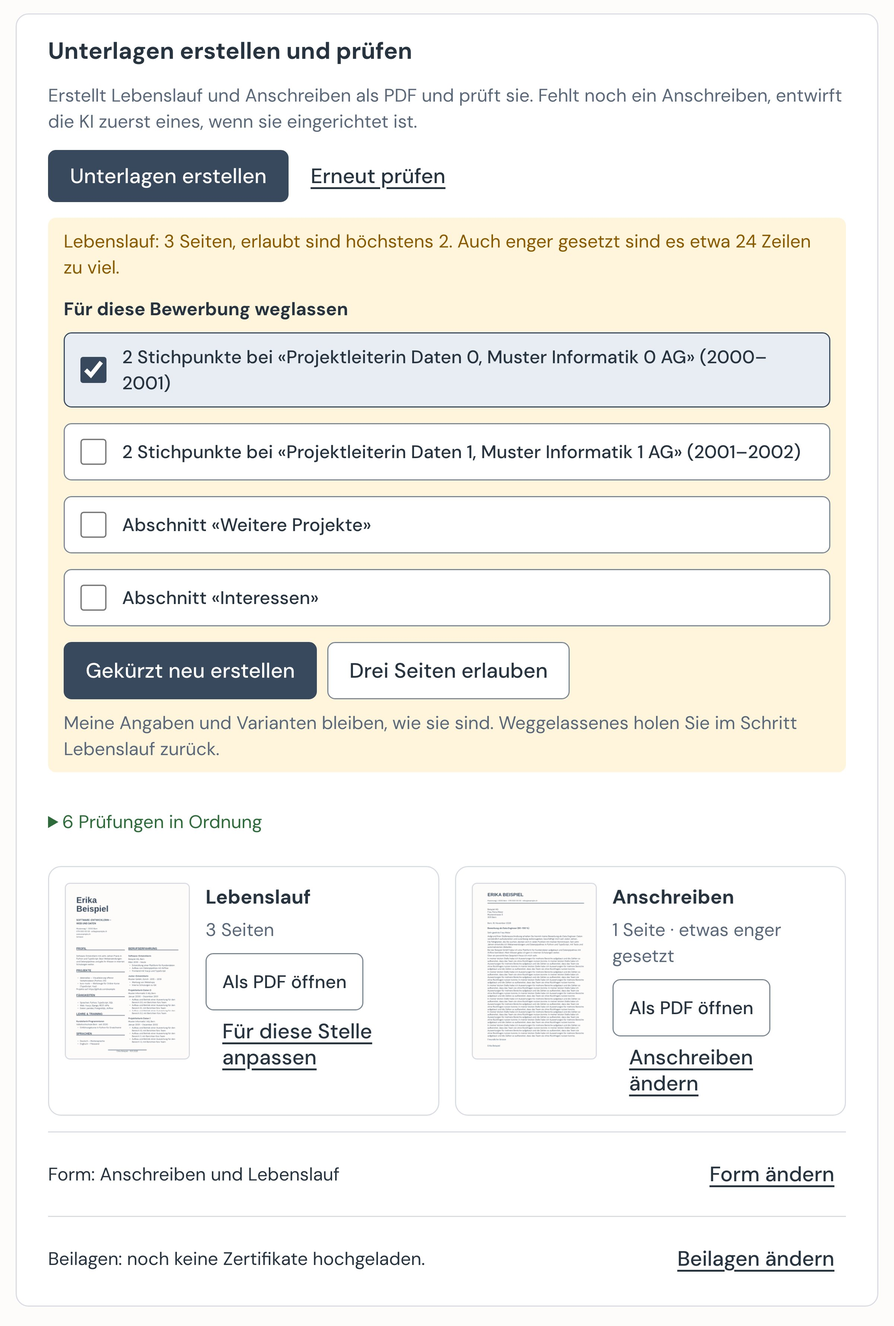
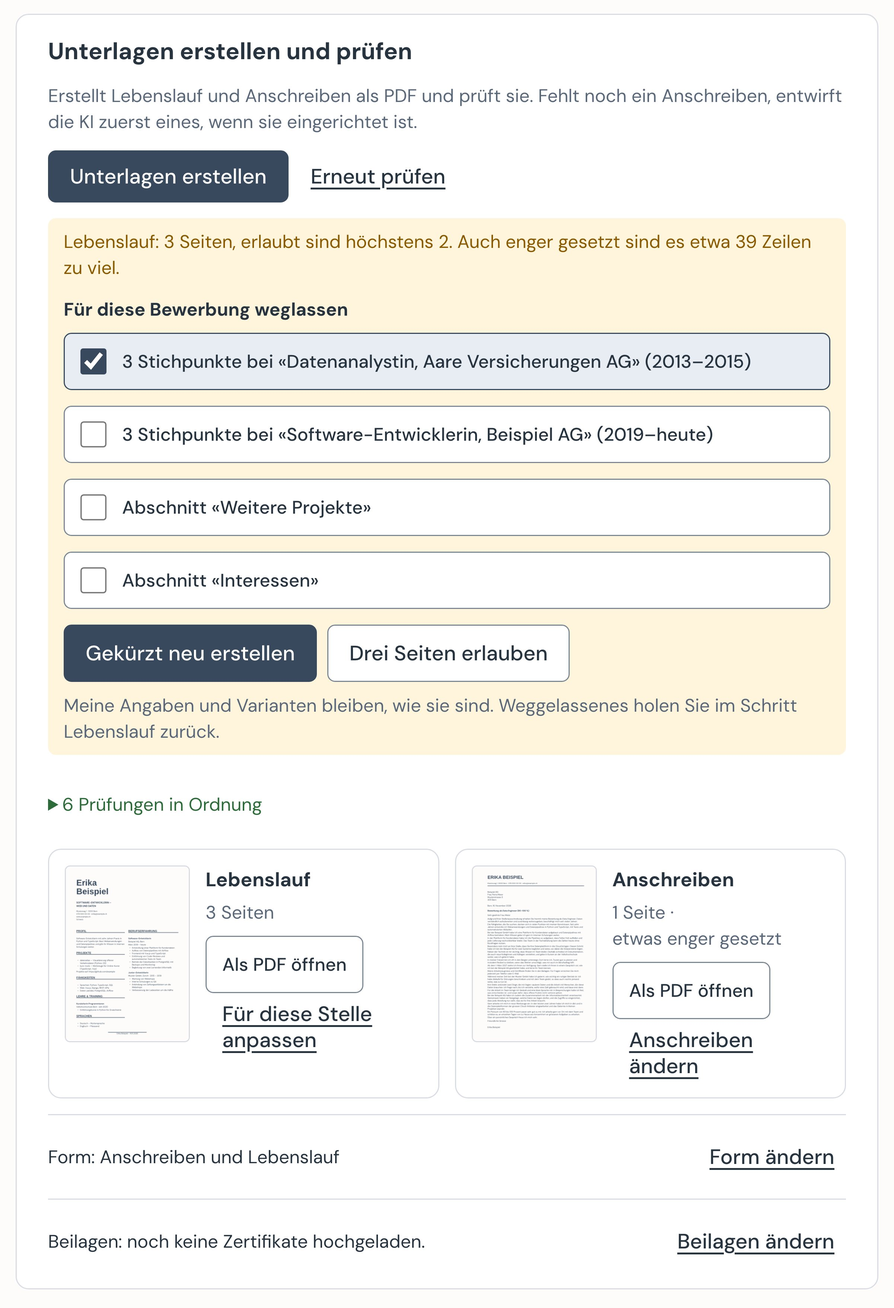
fix(bewerbungen): keep tile note parts whole, retake the picture [G93]
Pullboard-Item: #324

diff --git a/bewerbungen/seiten/unterlagen-schritt.js b/bewerbungen/seiten/unterlagen-schritt.js
@@ -58,17 +58,18 @@
     return el("a", attributes, adapt.text);
   }
 
-  const noteId = tile => `doc-tile-${tile.art}-seiten`;
-
   /**
-   * Pages and how they were balanced (G93), in plain words without a colour. The «·» is hidden from screen readers,
-   * which hear a comma instead, so the parts do not run together.
+   * Pages and how they were balanced (G93), in plain words without a colour. Each part breaks only as a whole, and the
+   * no-break space keeps the «·» on the line of the part before it. Screen readers skip the «·» and hear a comma.
    */
   function noteLine(tile) {
     if (!tile.note.length) return null;
-    const parts = tile.note.flatMap((part, index) => index === 0 ? [part]
-      : [el("span", { "aria-hidden": "true" }, " · "), el("span", { class: "visually-hidden" }, ", "), part]);
-    return el("p", { class: "doc-tile__note", id: noteId(tile) }, ...parts);
+    const parts = tile.note.flatMap((part, index) => {
+      const whole = el("span", { class: "doc-tile__part" }, part);
+      return index === 0 ? [whole]
+        : [el("span", { "aria-hidden": "true" }, " · "), el("span", { class: "visually-hidden" }, ", "), whole];
+    });
+    return el("p", { class: "doc-tile__note" }, ...parts);
   }
 
   /** One tile per built document; `stand` makes the browser load a rebuilt file anew. */
@@ -77,13 +78,11 @@
     const tiles = R.tiles(daten.pdfs, W.gewaehlt(entry),
       { ownCv: Boolean(daten.eigener_lebenslauf), sent: Boolean(entry.versand), notes: daten.seiten });
     $("pdfs").replaceChildren(...tiles.map(tile => {
-      const note = noteLine(tile);
-      const named = { class: "doc-tile", "aria-labelledby": `doc-tile-${tile.art}` };
-      return el("article", note ? { ...named, "aria-describedby": noteId(tile) } : named,
+      return el("article", { class: "doc-tile", "aria-labelledby": `doc-tile-${tile.art}` },
         el("img", { class: "doc-tile__thumb", src: url("/api/pdf/miniatur", { id: entryId, art: tile.art, stand }), alt: tile.alt, ...THUMB }),
         el("div", { class: "doc-tile__body" },
           el("h3", { class: "doc-tile__name", id: `doc-tile-${tile.art}` }, tile.name),
-          note,
+          noteLine(tile),
           el("div", { class: "doc-tile__links" },
             el("a", { class: "btn btn--sm doc-tile__link", href: url("/api/pdf", { id: entryId, art: tile.art, stand }), target: "_blank", rel: "noopener" }, tile.open),
             adaptLink(tile.adapt))));

diff --git a/bewerbungen/seiten/unterlagen.css b/bewerbungen/seiten/unterlagen.css
@@ -100,7 +100,9 @@
 .doc-tile__body { display: flex; flex: 1 1 auto; flex-direction: column; gap: var(--space-2); min-width: 0; }
 .application .card .doc-tile__name { margin: 0; font-size: 15px; line-height: 22px; }
 /* G93: words, never a colour, say what the app did to the pages */
-.application .card .doc-tile__note { margin: calc(-1 * var(--space-1)) 0 0; font-size: 14px; line-height: 20px; color: var(--text-muted); overflow-wrap: anywhere; }
+.application .card .doc-tile__note { margin: calc(-1 * var(--space-1)) 0 0; font-size: 14px; line-height: 20px; color: var(--text-muted); }
+/* a part breaks to the next line as a whole, so «so eng wie möglich» is never split */
+.application .card .doc-tile__part { display: inline-block; max-width: 100%; }
 .doc-tile__links { display: flex; flex-direction: column; align-items: flex-start; gap: var(--space-1); }
 /* «Für diese Stelle anpassen» is wider than a tile at 1280 px; buttons do not wrap by default */
 .doc-tile__link { min-height: 44px; max-width: 100%; white-space: normal; text-align: left; }

diff --git a/desktop/tests/test_guide_redesign.py b/desktop/tests/test_guide_redesign.py
@@ -153,3 +153,9 @@ def test_the_pictures_say_what_they_show_today():
     # G93, #324: each tile names its pages and how the app balanced them
     assert "beim Anschreiben 1 Seite · etwas enger gesetzt" in picture
     assert "**1 Seite · etwas enger gesetzt**" in check and "**7 Seiten · Lebenslauf etwas enger gesetzt**" in check
+    assert "damit keine Seite fast leer bleibt und die Seitenzahl eingehalten wird" in check
+    assert ("Passt ein Dokument auch so eng wie möglich nicht, setzt die App es wie vorgegeben; dann steht nur die Zahl "
+            "der Seiten da, und der Befund darüber nennt, wie viel zu viel ist.") in check
+    # the picture shows natural invented stations, not the generated ones of the tests
+    assert "Projektleiterin Daten" not in picture and "Muster Informatik 0" not in picture
+    assert "3 Stichpunkte bei «Datenanalystin, Aare Versicherungen AG» (2013–2015)" in picture

diff --git a/docs/installation.md b/docs/installation.md
@@ -211,9 +211,9 @@ Gibt es Suchprofil, Stilprofil oder Bausteine schon, fragt die App beim Überneh
 
 1. **Suchen**: Klicken Sie links auf **Stellen** und dann auf **Jetzt suchen**. Die Erweiterung sucht auf den Portalen, in Ihrem Browser und nur, wenn Sie die Suche starten. Ohne gewählte Kantone sucht sie in der ganzen Schweiz; Stellen nahe Ihrem Wohnort stehen dann zuerst. Lässt sich die Suche noch nicht starten, steht der Grund direkt unter dem Knopf, etwa **Zuerst Meine Angaben abschliessen.** Oben fasst eine Zeile die Einstellungen zusammen: Suchbegriffe, Region und Anzahl Portale. Mit **Ändern** oder **Suche einstellen** öffnen Sie die Seite **Suche einstellen** und wählen dort unter **Wo suchen Sie?** die Portale. Region, Pensum, was Sie nicht sehen wollen und den Titelfilter unter **Erweitert** ändern Sie dort ebenfalls: **Ändern** in der Karte öffnet die Felder, **Speichern** gilt ab der nächsten Suche, und der frühere Stand bleibt als Entwurf erhalten. Passen Ihre Begriffe nicht zur Informatik, ist ictjobs zu Beginn ausgeschaltet. Die Suche läuft alle Ihre Suchbegriffe und Orte ab, pro Portal in Etappen von höchstens 30 Suchen mit einer Minute Pause dazwischen, damit die Portale nicht alles auf einmal bekommen. Vor einer langen Suche steht unter **Jetzt suchen**, wie viele Suchen und Etappen es sind und wie lange es etwa dauert; während der Suche zeigt die Seite, auf welchem Portal sie mit welchem Suchbegriff und Ort sucht und bei welcher Suche und Etappe sie ist. Pro Portal holt ein Lauf höchstens 150 neue Inserate, der Rest kommt bei der nächsten Suche. Ihre Suchbegriffe stehen auf **Suche einstellen** unter **Welche Stellen passen zu Ihnen?**: Einen eigenen tragen Sie unter **Eigenen Suchbegriff aufnehmen** ein und klicken auf **Aufnehmen**. Haben Sie einen Begriff aus Versehen entfernt, holt **Rückgängig** in der Meldung ihn an seinen Platz zurück. Die Suche sucht Ihre Begriffe von oben nach unten, die wichtigsten zuerst; ein neuer Begriff kommt ans Ende. Um die Reihenfolge zu ändern, ziehen Sie einen Begriff an den Punkten links an seinen Platz, oder Sie verschieben ihn mit den Pfeilen daneben, auch mit der Tastatur. Die neue Reihenfolge gilt ab der nächsten Suche, und der frühere Stand bleibt als Entwurf erhalten.
 2. **Entscheiden**: Neue Treffer stehen unter **Neu**. Hat ein Treffer noch keine Note, lässt **Bewerten** die KI einschätzen, wie gut er zu Ihnen passt; **Alle prüfen** über der Liste tut das für alle, mit den geschätzten Kosten daneben. Während es läuft, steht im Kasten, welches Inserat die Erweiterung gerade holt und welche Stellen die KI gerade prüft. Beim gewählten Treffer klicken Sie auf **Bewerbung vorbereiten**: Die App legt die Bewerbung an und öffnet sie. **Merken** legt sie an, ohne sie zu öffnen; die Meldung **Gemerkt.** führt mit **Bewerbung öffnen** zu ihr. **Verwerfen** blendet den Treffer aus. Gemerkte Treffer stehen unter **Gemerkt**, verworfene unter **Verworfen**. Mehrere auf einmal merkt **Alle ab Note … merken** unter der Liste: Wählen Sie die Note, die App nennt vorher, welche Treffer das sind, und merkt sie erst, wenn Sie bestätigen. Treffer ohne Note bleiben dabei, wie sie sind.
-3. **Bewerben**: **Heute** zeigt, was als Nächstes zu tun ist, und die Seite **Bewerbungen** den nächsten Schritt jeder Bewerbung. Öffnen Sie eine Bewerbung. Unter **Lebenslauf** wählen Sie die Variante oder erstellen mit **Lebenslauf erstellen** einen Lebenslauf für diese Stelle (siehe [Lebenslauf für eine Stelle erstellen](#lebenslauf-für-eine-stelle-erstellen)). Unter **Unterlagen erstellen und prüfen** wählen Sie, ob die Unterlagen als **Anschreiben und Lebenslauf** entstehen, zwei PDF wie vorgegeben, oder als **Dossier**. Mit Dossier fasst eine Zeile Design, Zeichen und Farbe sowie Begrüssung und Dank zusammen; **Dossier gestalten** öffnet dazu ein Fenster mit einer Vorschau des Deckblatts. Unter **Für diese Bewerbung** wählen Sie das Design, unter **Design pro Seite** eines für einzelne Seiten, dazu Begrüssung und Dank; das gilt erst mit **Übernehmen**, und **Abbrechen** fragt **Änderungen verwerfen?**, wenn Sie Texte geändert haben. Zeichen und Farbe unter **Für alle Dossiers** gelten für alle Dossiers und sind sofort gespeichert. Dann klicken Sie auf **Unterlagen erstellen**. Fehlt noch ein Anschreiben, entwirft die KI dabei zuerst eines; das kann bis zu einer Minute dauern. Der Entwurf ist ein Ausgangspunkt: Lesen Sie ihn, passen Sie ihn mit **Ändern** an die Stelle und die Firma an, und klicken Sie dann auf **Freigeben**. Die App prüft die erstellten PDFs unter **Unterlagen erstellen und prüfen**: wie voll die letzte Seite ist, ob eine Überschrift allein am Ende einer Seite steht und ob Text über den Rand oder über anderen Text läuft. Jeder Befund nennt das Dokument und die Seite und hat einen Knopf **So lassen**; das Formular öffnet sich erst, wenn Sie jeden Befund angesehen und bestätigt haben. Was in Ordnung ist, steht zugeklappt darunter, etwa **6 Prüfungen in Ordnung**. Ist der Lebenslauf auch eng gesetzt zu lang, nennt der Befund, wie viele Zeilen zu viel sind, und statt **So lassen** stehen darunter Kürzungen zum Anhaken, etwa **3 Stichpunkte bei «Station, Firma» (2015–2018)** oder ein ganzer Abschnitt; die erste ist schon angehakt. **Gekürzt neu erstellen** erstellt Lebenslauf und Dossier ohne das Angehakte neu, **Drei Seiten erlauben** lässt drei Seiten zu. Beides gilt nur für diese Bewerbung: Meine Angaben und Varianten bleiben, wie sie sind. Solange der Lebenslauf zu lang ist, nennt die Prüfung nicht, wie voll seine letzte Seite ist; diese Seite fällt ja weg. Ist der Lebenslauf danach noch zu lang, meldet die App **Gekürzt und neu erstellt. Der Lebenslauf ist noch zu lang; die nächste Kürzung ist angehakt.**, und der Befund kommt wieder, mit der nächsten Kürzung angehakt. Was weggelassen ist, steht unter **Lebenslauf**, nach **Lebenslauf erstellen** und **Lebenslauf anpassen**, bei **Für diese Bewerbung weggelassen**, und **Zurückholen** nimmt es wieder auf. Haben Sie drei Seiten erlaubt, steht darunter die Zeile **Drei Seiten erlaubt, nur für diese Bewerbung.** mit **Zurücknehmen**. **Zurücknehmen** bei **Drei Seiten erlaubt** gilt wieder die Grenze von zwei Seiten. Ist das Anschreiben zu lang, nennt der Befund, was sich kürzen liesse; gekürzt wird es nur von Ihnen. Pro Dokument zeigt eine Kachel die erste Seite und darunter, wie viele Seiten es hat. Hat die App den Satz verändert, damit keine Seite fast leer bleibt und die Grenze hält, steht in wenigen Worten dabei, wie, etwa **1 Seite · etwas enger gesetzt**, **2 Seiten · etwas grosszügiger gesetzt** oder **2 Seiten · so eng wie möglich**; beim Dossier mit dem Teil, etwa **7 Seiten · Lebenslauf etwas enger gesetzt**. **Als PDF öffnen** zeigt das ganze PDF, und ein Link führt dorthin, wo Sie es ändern: **Für diese Stelle anpassen** zur Wahl der Lebenslauf-Variante, bei Ihrem eigenen PDF **In Lebenslauf und Dateien ändern**, **Anschreiben ändern** zum Anschreiben und **Dossier gestalten** zum Dossier. Nach dem Erstellen steht die gewählte Form nur noch als eine Zeile über den Beilagen, etwa **Form: Dossier, Siegel**; **Form ändern** zeigt die Kacheln wieder. Die Beilagen stehen in einer Zeile; **Beilagen ändern** öffnet die Liste der Zertifikate, und **Auswahl speichern** hält sie fest. Danach öffnet **Formular öffnen** das Formular der Firma, und die Erweiterung füllt es aus. Haben Sie schon einen fertigen Lebenslauf, entfällt das Erstellen (siehe [Fertige Dateien verwenden](#fertige-dateien-verwenden)).
+3. **Bewerben**: **Heute** zeigt, was als Nächstes zu tun ist, und die Seite **Bewerbungen** den nächsten Schritt jeder Bewerbung. Öffnen Sie eine Bewerbung. Unter **Lebenslauf** wählen Sie die Variante oder erstellen mit **Lebenslauf erstellen** einen Lebenslauf für diese Stelle (siehe [Lebenslauf für eine Stelle erstellen](#lebenslauf-für-eine-stelle-erstellen)). Unter **Unterlagen erstellen und prüfen** wählen Sie, ob die Unterlagen als **Anschreiben und Lebenslauf** entstehen, zwei PDF wie vorgegeben, oder als **Dossier**. Mit Dossier fasst eine Zeile Design, Zeichen und Farbe sowie Begrüssung und Dank zusammen; **Dossier gestalten** öffnet dazu ein Fenster mit einer Vorschau des Deckblatts. Unter **Für diese Bewerbung** wählen Sie das Design, unter **Design pro Seite** eines für einzelne Seiten, dazu Begrüssung und Dank; das gilt erst mit **Übernehmen**, und **Abbrechen** fragt **Änderungen verwerfen?**, wenn Sie Texte geändert haben. Zeichen und Farbe unter **Für alle Dossiers** gelten für alle Dossiers und sind sofort gespeichert. Dann klicken Sie auf **Unterlagen erstellen**. Fehlt noch ein Anschreiben, entwirft die KI dabei zuerst eines; das kann bis zu einer Minute dauern. Der Entwurf ist ein Ausgangspunkt: Lesen Sie ihn, passen Sie ihn mit **Ändern** an die Stelle und die Firma an, und klicken Sie dann auf **Freigeben**. Die App prüft die erstellten PDFs unter **Unterlagen erstellen und prüfen**: wie voll die letzte Seite ist, ob eine Überschrift allein am Ende einer Seite steht und ob Text über den Rand oder über anderen Text läuft. Jeder Befund nennt das Dokument und die Seite und hat einen Knopf **So lassen**; das Formular öffnet sich erst, wenn Sie jeden Befund angesehen und bestätigt haben. Was in Ordnung ist, steht zugeklappt darunter, etwa **6 Prüfungen in Ordnung**. Ist der Lebenslauf auch eng gesetzt zu lang, nennt der Befund, wie viele Zeilen zu viel sind, und statt **So lassen** stehen darunter Kürzungen zum Anhaken, etwa **3 Stichpunkte bei «Station, Firma» (2015–2018)** oder ein ganzer Abschnitt; die erste ist schon angehakt. **Gekürzt neu erstellen** erstellt Lebenslauf und Dossier ohne das Angehakte neu, **Drei Seiten erlauben** lässt drei Seiten zu. Beides gilt nur für diese Bewerbung: Meine Angaben und Varianten bleiben, wie sie sind. Solange der Lebenslauf zu lang ist, nennt die Prüfung nicht, wie voll seine letzte Seite ist; diese Seite fällt ja weg. Ist der Lebenslauf danach noch zu lang, meldet die App **Gekürzt und neu erstellt. Der Lebenslauf ist noch zu lang; die nächste Kürzung ist angehakt.**, und der Befund kommt wieder, mit der nächsten Kürzung angehakt. Was weggelassen ist, steht unter **Lebenslauf**, nach **Lebenslauf erstellen** und **Lebenslauf anpassen**, bei **Für diese Bewerbung weggelassen**, und **Zurückholen** nimmt es wieder auf. Haben Sie drei Seiten erlaubt, steht darunter die Zeile **Drei Seiten erlaubt, nur für diese Bewerbung.** mit **Zurücknehmen**. **Zurücknehmen** bei **Drei Seiten erlaubt** gilt wieder die Grenze von zwei Seiten. Ist das Anschreiben zu lang, nennt der Befund, was sich kürzen liesse; gekürzt wird es nur von Ihnen. Pro Dokument zeigt eine Kachel die erste Seite und neben dem Namen, wie viele Seiten es hat. Hat die App den Satz verändert, damit keine Seite fast leer bleibt und die Seitenzahl eingehalten wird, steht in wenigen Worten dabei, wie, etwa **1 Seite · etwas enger gesetzt**, **2 Seiten · etwas grosszügiger gesetzt** oder **2 Seiten · so eng wie möglich**; beim Dossier mit dem Teil, etwa **7 Seiten · Lebenslauf etwas enger gesetzt**. Passt ein Dokument auch so eng wie möglich nicht, setzt die App es wie vorgegeben; dann steht nur die Zahl der Seiten da, und der Befund darüber nennt, wie viel zu viel ist. **Als PDF öffnen** zeigt das ganze PDF, und ein Link führt dorthin, wo Sie es ändern: **Für diese Stelle anpassen** zur Wahl der Lebenslauf-Variante, bei Ihrem eigenen PDF **In Lebenslauf und Dateien ändern**, **Anschreiben ändern** zum Anschreiben und **Dossier gestalten** zum Dossier. Nach dem Erstellen steht die gewählte Form nur noch als eine Zeile über den Beilagen, etwa **Form: Dossier, Siegel**; **Form ändern** zeigt die Kacheln wieder. Die Beilagen stehen in einer Zeile; **Beilagen ändern** öffnet die Liste der Zertifikate, und **Auswahl speichern** hält sie fest. Danach öffnet **Formular öffnen** das Formular der Firma, und die Erweiterung füllt es aus. Haben Sie schon einen fertigen Lebenslauf, entfällt das Erstellen (siehe [Fertige Dateien verwenden](#fertige-dateien-verwenden)).
 
-![Abschnitt Unterlagen erstellen und prüfen nach Unterlagen erstellen: gelb der Befund Lebenslauf: 3 Seiten, erlaubt sind höchstens 2, mit etwa 24 Zeilen zu viel, darunter unter Für diese Bewerbung weglassen vier Kürzungen zum Anhaken, angehakt die erste, 2 Stichpunkte bei «Projektleiterin Daten 0, Muster Informatik 0 AG» (2000–2001), dann die Knöpfe Gekürzt neu erstellen und Drei Seiten erlauben und der Satz, dass Meine Angaben und Varianten bleiben, wie sie sind, darunter zugeklappt 6 Prüfungen in Ordnung, je eine Kachel für Lebenslauf und Anschreiben mit der ersten Seite und der Zahl der Seiten, beim Lebenslauf 3 Seiten, beim Anschreiben 1 Seite · etwas enger gesetzt, dazu Als PDF öffnen und dem Link zum Ändern, darunter die Zeile Form: Anschreiben und Lebenslauf mit Form ändern, zuunterst die Zeile der Beilagen mit Beilagen ändern](bilder/pruefung.jpg)
+![Abschnitt Unterlagen erstellen und prüfen nach Unterlagen erstellen: gelb der Befund Lebenslauf: 3 Seiten, erlaubt sind höchstens 2, mit etwa 39 Zeilen zu viel, darunter unter Für diese Bewerbung weglassen vier Kürzungen zum Anhaken, angehakt die erste, 3 Stichpunkte bei «Datenanalystin, Aare Versicherungen AG» (2013–2015), dann die Knöpfe Gekürzt neu erstellen und Drei Seiten erlauben und der Satz, dass Meine Angaben und Varianten bleiben, wie sie sind, darunter zugeklappt 6 Prüfungen in Ordnung, je eine Kachel für Lebenslauf und Anschreiben mit der ersten Seite und der Zahl der Seiten, beim Lebenslauf 3 Seiten, beim Anschreiben 1 Seite · etwas enger gesetzt, dazu Als PDF öffnen und dem Link zum Ändern, darunter die Zeile Form: Anschreiben und Lebenslauf mit Form ändern, zuunterst die Zeile der Beilagen mit Beilagen ändern](bilder/pruefung.jpg)
 
 Abgeschickt wird eine Bewerbung immer von Ihnen selbst.
 

diff --git a/bewerbungen/CLAUDE.md b/bewerbungen/CLAUDE.md
@@ -14,7 +14,7 @@ Verwaltung und lokale Oberfläche des Bewerbungsbegleiters (MIN-261 Ablauf, MIN-
 - `versionen.py` – zusätzlicher Git-Commit beim Versand, nur wenn Git installiert ist (nur die genannten Dateien, Ersatz-Autor ohne Git-Konfiguration); ohne Git `OhneGit`. Die eigene Ablage ist auch ohne Git vollständig (MIN-304).
 - `register.py` – `bewerbungen.yaml`, Prüfung, IDs, Job-Room-Angaben (nur abgeleitet, nie gespeichert), Import/Export im Format der Jobliste.
 - `varianten.py` – `varianten.yaml`, Vorschlag per Stichwort-Abgleich.
-- `unterlagen.py` – Lebenslauf (Variante) und Anschreiben pro Bewerbung bauen. Varianten legen Claude und „Lebenslauf erstellen“ an (G17); gibt es keine, wird der ganze Lebenslauf gebaut, sonst muss die Person wählen. `wirksame_pdfs` sagt, welche Dateien für eine Bewerbung gelten, `pdf_pfade` nur, wohin gebaut wird. Pro Bewerbung wählt die Person unter „Unterlagen erstellen und prüfen“ Dossier oder Anschreiben und Lebenslauf als zwei Kacheln (G40, `unterlagen` im Register, `seiten/unterlagen-wahl.js`); ohne Wahl gelten die zwei Dateien (G41). Den Schritt zeichnet `seiten/unterlagen-schritt.js` (#321, Option A in `docs/design/unterlagen-erstellen.md`, Texte und Logik ohne DOM in `seiten/unterlagen-ergebnis.js`, Stil in `seiten/unterlagen.css`): mit Dossier eine Zeile mit Deckblatt, Design, Zeichen und dem Stand von Begrüssung und Dank; „Dossier gestalten“ öffnet einen nativen Dialog (#322, Board A2, `seiten/dossier-dialog.js`, Logik ohne DOM in `seiten/dossier-dialog-logik.js`) mit „Für diese Bewerbung“ (Design als Radiogruppe, „Design pro Seite“, Begrüssung und Dank; ein Entwurf, den erst „Übernehmen“ speichert; „Abbrechen“ und Esc fragen „Änderungen verwerfen?“, wenn Texte geändert sind) und „Für alle Dossiers“ (Zeichen und Farbe, sofort gespeichert), dazu die Vorschau des Deckblatts, die über das Ereignis `dossier-entwurf` dem Entwurf folgt. Nach dem Erstellen klappen die Kacheln der Form und die Dossier-Zeile zu einer Zeile über den Beilagen zusammen („Form: Dossier, Siegel“, `unterlagen-ergebnis.formLine`), „Form ändern“ zeigt die Kacheln wieder; nach dem Erstellen die Befunde (bestandene zugeklappt, Ansage per role=status, Fokus auf den ersten Befund) und pro Dokument eine Kachel mit Seite 1 (`pdf_thumbnail.py`, `/api/pdf/miniatur`, PNG von Typst, im `k.cache` nach Pfad, Zeit und Grösse), darunter die Zahl der Seiten und, nur wenn die App den Satz verändert hat, wie, etwa „1 Seite · etwas enger gesetzt“, beim Dossier mit dem Teil (G93, #324, Option A in `docs/design/seiten-ausgleichen.md`: `page_note.py` zählt die Seiten und liest die Stufe aus dem Bericht neben dem PDF, `lebenslauf/fill_record.py`, nach dem Versand neben der gebauten Datei; `seiten` in `/api/bewerbung`, Worte in `unterlagen-ergebnis.pageNote`, das «·» mit aria-hidden, nie eine Farbe), „Als PDF öffnen“ und dem Link dorthin, wo es geändert wird; die Beilagen als Zeile mit „Beilagen ändern“. Mit Dossier baut `lebenslauf/dossier.py` alle drei PDFs, nur aus `cv.yaml` mit Zuschnitt und `anschreiben.yaml`, nie um ein fertiges PDF; Seiten wie Gruss und Dank liest es aus `bewerbungen/<id>/dossier.yaml`, falls vorhanden. Das Design (G39, G41) steht als `dossier_design` im Register (ohne Wahl Siegel), unter „Design pro Seite“ pro Seite als `dossier_seiten` (Deckblatt, Anschreiben, Lebenslauf, weitere Seiten); `unterlagen.dossier_designs` gibt es an `dossier.py` weiter. Welches Dossier gilt, sagt `unterlagen.dossier_file` (gewählt, nach dem Versand das versendete): Die Prüfung liest es mit, der Versand legt es neben den zwei Dateien ab, und das gemeinsame PDF für ein Formular mit einem Feld ist das Dossier mit den Nachweisen dahinter (`merged_pdf.sources`, auch ohne Nachweise angeboten); einzelne Felder bekommen weiterhin Lebenslauf und Anschreiben (#207). Begrüssung und Dank (G19, `dossier_texts.py`, `routes_dossier.py`, `seiten/dossier-texte.js`) entwirft die KI über `routes_ai.ai_gateway` mit Platzhaltern wie beim Anschreiben; die Person passt sie unter „Dossier gestalten“ an und speichert sie mit „Übernehmen“, beides mit Entwürfen davor und danach; ein leerer Text entfernt das Feld und damit die Seite, die übrigen Felder bleiben. Nach dem Versand bleibt die Datei, wie sie ist.
+- `unterlagen.py` – Lebenslauf (Variante) und Anschreiben pro Bewerbung bauen. Varianten legen Claude und „Lebenslauf erstellen“ an (G17); gibt es keine, wird der ganze Lebenslauf gebaut, sonst muss die Person wählen. `wirksame_pdfs` sagt, welche Dateien für eine Bewerbung gelten, `pdf_pfade` nur, wohin gebaut wird. Pro Bewerbung wählt die Person unter „Unterlagen erstellen und prüfen“ Dossier oder Anschreiben und Lebenslauf als zwei Kacheln (G40, `unterlagen` im Register, `seiten/unterlagen-wahl.js`); ohne Wahl gelten die zwei Dateien (G41). Den Schritt zeichnet `seiten/unterlagen-schritt.js` (#321, Option A in `docs/design/unterlagen-erstellen.md`, Texte und Logik ohne DOM in `seiten/unterlagen-ergebnis.js`, Stil in `seiten/unterlagen.css`): mit Dossier eine Zeile mit Deckblatt, Design, Zeichen und dem Stand von Begrüssung und Dank; „Dossier gestalten“ öffnet einen nativen Dialog (#322, Board A2, `seiten/dossier-dialog.js`, Logik ohne DOM in `seiten/dossier-dialog-logik.js`) mit „Für diese Bewerbung“ (Design als Radiogruppe, „Design pro Seite“, Begrüssung und Dank; ein Entwurf, den erst „Übernehmen“ speichert; „Abbrechen“ und Esc fragen „Änderungen verwerfen?“, wenn Texte geändert sind) und „Für alle Dossiers“ (Zeichen und Farbe, sofort gespeichert), dazu die Vorschau des Deckblatts, die über das Ereignis `dossier-entwurf` dem Entwurf folgt. Nach dem Erstellen klappen die Kacheln der Form und die Dossier-Zeile zu einer Zeile über den Beilagen zusammen („Form: Dossier, Siegel“, `unterlagen-ergebnis.formLine`), „Form ändern“ zeigt die Kacheln wieder; nach dem Erstellen die Befunde (bestandene zugeklappt, Ansage per role=status, Fokus auf den ersten Befund) und pro Dokument eine Kachel mit Seite 1 (`pdf_thumbnail.py`, `/api/pdf/miniatur`, PNG von Typst, im `k.cache` nach Pfad, Zeit und Grösse), darunter die Zahl der Seiten und, nur wenn die App den Satz verändert hat, wie, etwa „1 Seite · etwas enger gesetzt“, beim Dossier mit dem Teil (G93, #324, Option A in `docs/design/seiten-ausgleichen.md`: `page_note.py` zählt die Seiten und liest die Stufe aus dem Bericht neben dem PDF, `lebenslauf/fill_record.py`, nach dem Versand neben der gebauten Datei; `seiten` in `/api/bewerbung`, Worte in `unterlagen-ergebnis.pageNote`, das «·» mit aria-hidden und geschütztem Leerzeichen davor, jeder Teil bricht nur als Ganzes um (`.doc-tile__part`), nie eine Farbe), „Als PDF öffnen“ und dem Link dorthin, wo es geändert wird; die Beilagen als Zeile mit „Beilagen ändern“. Mit Dossier baut `lebenslauf/dossier.py` alle drei PDFs, nur aus `cv.yaml` mit Zuschnitt und `anschreiben.yaml`, nie um ein fertiges PDF; Seiten wie Gruss und Dank liest es aus `bewerbungen/<id>/dossier.yaml`, falls vorhanden. Das Design (G39, G41) steht als `dossier_design` im Register (ohne Wahl Siegel), unter „Design pro Seite“ pro Seite als `dossier_seiten` (Deckblatt, Anschreiben, Lebenslauf, weitere Seiten); `unterlagen.dossier_designs` gibt es an `dossier.py` weiter. Welches Dossier gilt, sagt `unterlagen.dossier_file` (gewählt, nach dem Versand das versendete): Die Prüfung liest es mit, der Versand legt es neben den zwei Dateien ab, und das gemeinsame PDF für ein Formular mit einem Feld ist das Dossier mit den Nachweisen dahinter (`merged_pdf.sources`, auch ohne Nachweise angeboten); einzelne Felder bekommen weiterhin Lebenslauf und Anschreiben (#207). Begrüssung und Dank (G19, `dossier_texts.py`, `routes_dossier.py`, `seiten/dossier-texte.js`) entwirft die KI über `routes_ai.ai_gateway` mit Platzhaltern wie beim Anschreiben; die Person passt sie unter „Dossier gestalten“ an und speichert sie mit „Übernehmen“, beides mit Entwürfen davor und danach; ein leerer Text entfernt das Feld und damit die Seite, die übrigen Felder bleiben. Nach dem Versand bleibt die Datei, wie sie ist.
 - `mark_settings.py`, `routes_mark.py`, `logo_file.py` – Zeichen und Akzentfarbe des Dossiers (#124, G18, Option B in `docs/design/monogramm.md`): im Dialog „Dossier gestalten“ unter „Für alle Dossiers“ (`seiten/zeichen.js`, Logik ohne DOM in `seiten/zeichen-logik.js`, gleiche Farbregeln wie `lebenslauf/mark.py` über `lebenslauf/tests/accent_cases.json`). Gespeichert wird jede Wahl sofort, einmal pro Person, in `cv.yaml` (`x-zeichen`, `x-akzent`, `x-monogramm`, `x-logo`), mit Entwürfen davor und danach. Ein Logo (PNG, JPG, SVG bis 5 MB) liegt unter `logos/` mit Hash im Namen; PNG und JPG verlieren die Metadaten wie ein Foto, ein SVG mit Skript oder Inhalten von aussen wird abgelehnt; eine schlichte SVG-DOCTYPE älterer Programme wird vor der Prüfung entfernt und nie gespeichert (#243). Form, Durchsichtigkeit und die Farbe „Aus dem Logo“ liest `logo_file` aus einem kleinen PNG von Typst, ohne Bildbibliothek; „Aus dem Logo“ wird nie von selbst gewählt. Fehlt das gewählte Logo, nennt die Prüfung das bei einem Dossier (`pruefung.LOGO_MISSING`). Das Logo geht nie an die KI, sein Dateiname wird ersetzt (`ai/personal.py`, LOGO), ebenso eigene Initialen (MONOGRAM, #233), aber nur in ihrem Feld `x-monogramm` (#244, `pseudonym.INITIALS_PLACES`), damit Kürzel wie IT oder HR im Text bleiben. Initialen, die YAML 1.1 als Ja, Nein oder leer liest (NO, ON), schreibt die Seite in Anführungszeichen; ältere Dateien liest `lebenslauf/dossier_data.with_written_monogram` aus dem Text des Felds, für die KI wie fürs Dossier (#248, #250); die Erweiterung und Claude erreichen die Routen nicht.
 - `own_files.py`, `routes_own_files.py` – Seite „Lebenslauf und Dateien“ (MIN-346, #264, G55, `seiten/dateien.js`, Logik ohne DOM in `seiten/dateien-logik.js`): Wahl zwischen dem Lebenslauf der App und einem eigenen PDF (zurück zur App heisst: das PDF entfernen, nach einer Rückfrage), Zertifikate und Zeugnisse in einer Liste, verwendet wie sie sind; drei Arten nach G63 (#282, #292): Zeugnis (`zeugnis`, Arbeits- und Schulzeugnisse, eigener Ordner), Diplom (`diplom`) und Zertifikat (`zertifikat`). Die Art rät die Seite aus dem Namen, die Person ändert sie (`/api/dateien/art`): zu oder von Zeugnis verschiebt sie die Datei in den Ordner ihrer Art, nie auf eine Datei gleichen Namens. Diplome liegen bei den Zertifikaten, damit Wahl und ZIP pro Bewerbung bleiben; was ein Diplom ist, steht pro Datei in `dokumente/arten.yaml` (`proof_kinds.py`, mit Entwürfen). Eine Datei ohne Eintrag behält die Art ihres Ordners, darum ändert sich an Abgelegtem nichts, und eine erneut hochgeladene Datei behält ihre Art. Dazu die Fotos (G21, aktiv wählen und hinzufügen; Ausschnitt und Löschen auf „Foto“) und der Einstieg zu den früheren Fassungen. Reihenfolge beim Lebenslauf: gewählte Variante, dann eigenes PDF, dann gebauter. „Lebenslauf anpassen“ (#119, `seiten/lebenslauf-anpassen.js`) führt auf der Seite der Bewerbung zur gewählten Variante (`/inhalte`) oder zu Meine Angaben; ein fertiges PDF bekommt stattdessen den Hinweis, dass es so verwendet wird, wie es ist. Beim eigenen PDF sind „kaum Text“ und Platzhalter nur Hinweise, unlesbar bleibt ein Fehler. Eine Änderung an einem gewählten Zertifikat zieht das ZIP noch nicht versendeter Bewerbungen nach. Dazu pro Bewerbung ein eigenes Anschreiben (`seiten/eigenes-anschreiben.js`, `unterlagen.own_letter`): Es geht vor `anschreiben.yaml`, die KI-Routen lehnen ab, solange es gilt, und nach dem Versand ist es fest. Den Pfad der `anschreiben.yaml` immer aus `unterlagen.letter_source` holen, nie aus dem wirksamen PDF. Die Erweiterung und Claude erreichen die Routen nicht, die KI bekommt die Dateien nie.
 - `cv_design.py` – Aussehen des Lebenslaufs (G61, #280): „Aussehen wählen“ auf „Lebenslauf und Dateien“ (Dialog in `seiten/dateien.js`, Logik in `seiten/dateien-logik.js`, Route `/api/dateien/aussehen`) wählt Zweispaltig (Vorgabe) oder Einspaltig, einmal pro Person in `aussehen.yaml`, mit Entwürfen. Jeder Bau des Lebenslaufs (`unterlagen.baue`, die Vorschau von `cv.yaml` in `inhalte.py`) liest die Wahl neu, darum übernehmen neue Bewerbungen sie und Gebautes oder Versendetes bleibt; `lebenslauf_design` im Register geht für eine einzelne Bewerbung vor (G17, gewählt mit „Lebenslauf erstellen“). Siegel, Raster und Register bauen keinen Lebenslauf ohne Anschreiben und bleiben das Design des Dossiers pro Bewerbung.
